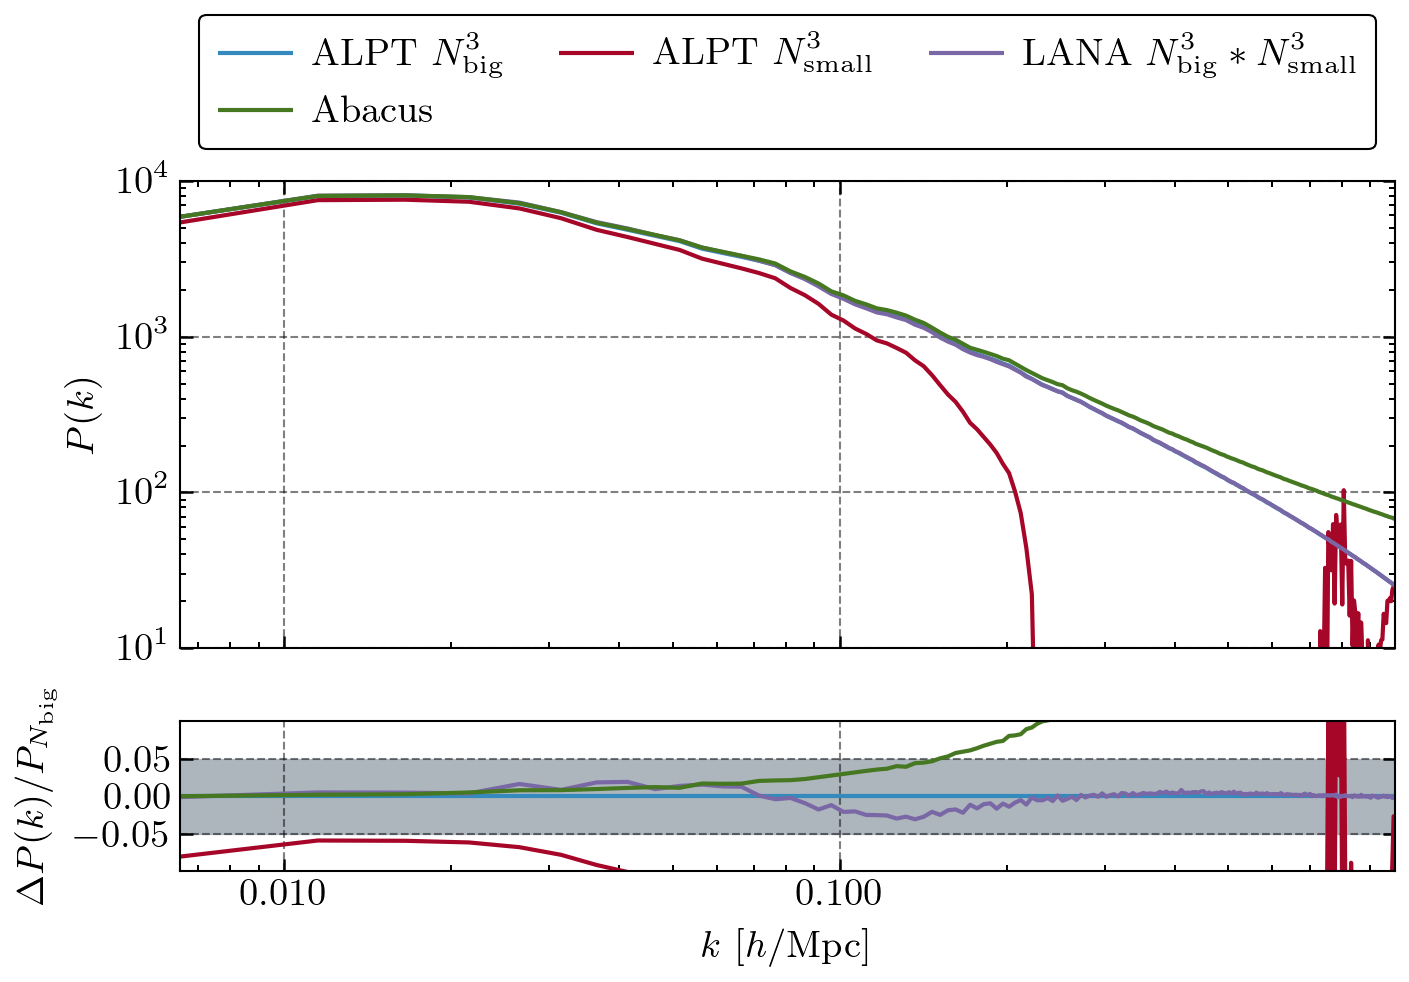
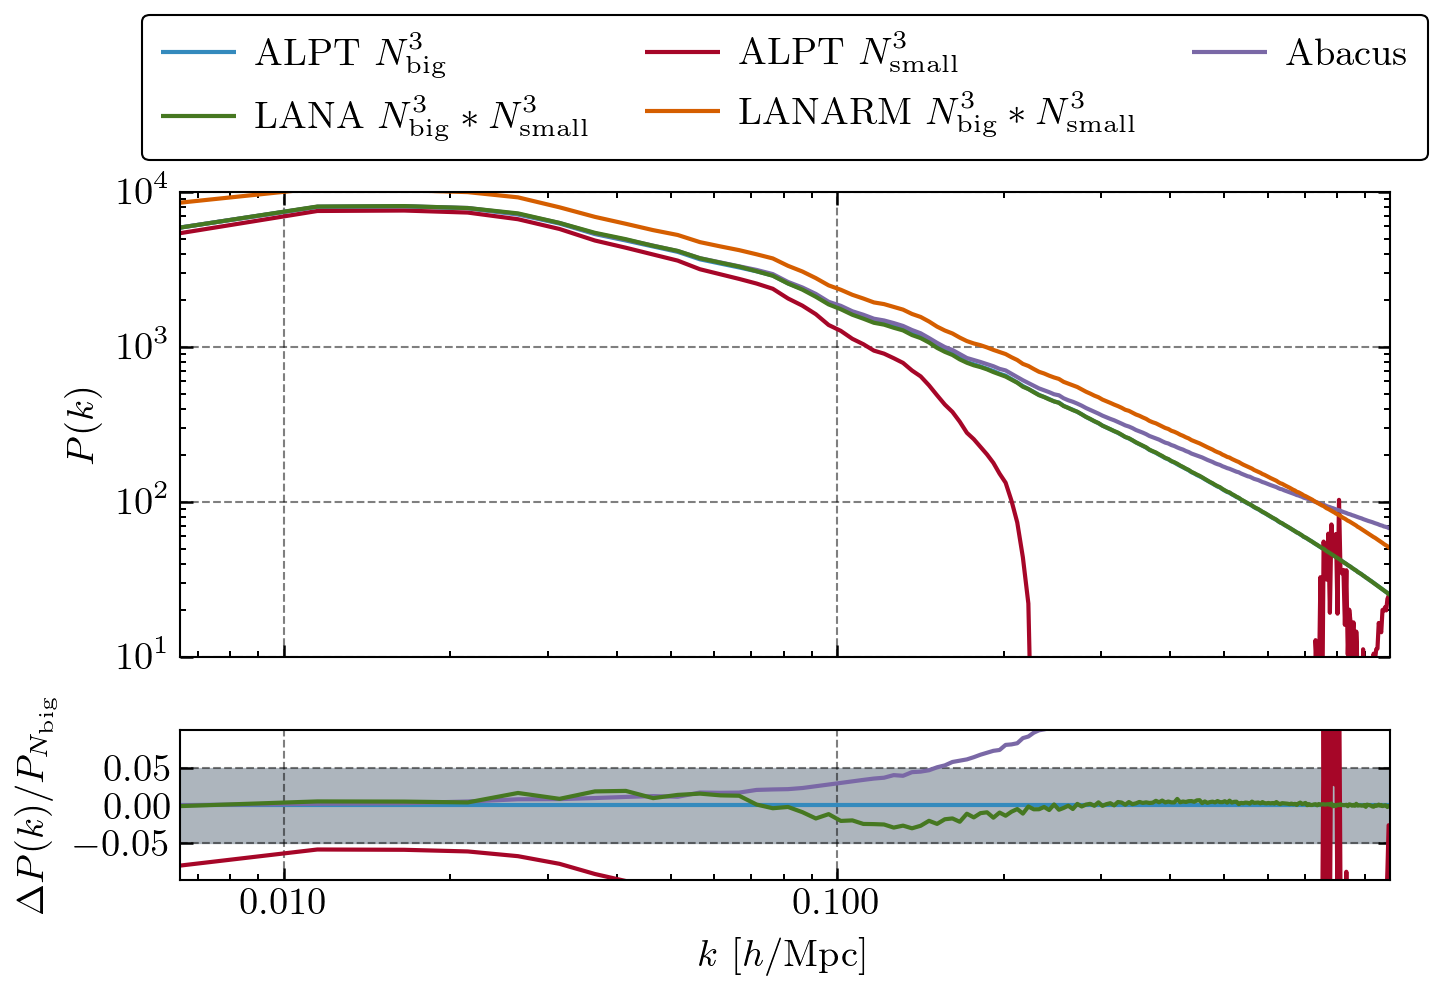
Readme w instructions

diff --git a/examples/multiscale.py b/examples/multiscale.py
@@ -9,15 +9,12 @@ import jax.numpy as jnp
 import jax_cosmo as jc
 from jax_cosmo.power import linear_matter_power, nonlinear_matter_power
 import sys, os, time
-sys.path.append("/home/astro/dforero/codes/pyCosmoMIA/")
-sys.path.append("/home/astro/dforero/codes/pyCosmoMIA/cosmomia/")
-from displacements import aug_lpt, spherical_collapse, two_lpt, zeldovich, divergence_to_displacement, interpolate_field, two_lpt_, nbody, lpt_init, gen_ode_func, eul_aug_lpt, rank_order_fields, apply_transfer_func
-from ics import linear_field_box_muller
-from mas import cic_mas_vec
+from cosmomia.displacements import aug_lpt, spherical_collapse, two_lpt, zeldovich, divergence_to_displacement, interpolate_field, two_lpt_, nbody, lpt_init, gen_ode_func, eul_aug_lpt, rank_order_fields, apply_transfer_func
+from cosmomia.ics import linear_field_box_muller
+from cosmomia.mas import cic_mas_vec
 from cosmomia import cy_read_cic_vector, cy_cic_mas
-from correlations import powspec_vec, naive_pk, naive_xpk, naive_rcoeff, compute_transfer_from_power, compute_transfer_from_cross_power
-sys.path.append("/home/astro/dforero/codes/pypowspec/powspec/")
-from pypowspec import compute_auto_box_mesh, compute_auto_box
+from cosmomia.correlations import powspec_vec, naive_pk, naive_xpk, naive_rcoeff, compute_transfer_from_power, compute_transfer_from_cross_power
+from pypowspec.pypowspec import compute_auto_box_mesh, compute_auto_box
 from tqdm import tqdm
 from mpi4py import MPI
 comm = MPI.COMM_WORLD
@@ -375,10 +372,40 @@ if __name__ == '__main__':
         #pax[0].plot(k_, pk_ / pk_ref - 1,)
         #fig.savefig("plots/example_multiscale.png", dpi=300)
         
+        
+        
+        fname = f"data/reference/dmdens_abacus.npy"
+        fname_pk = f"data/reference/pk_abacus.npy"
+        if not os.path.isfile(fname) or not os.path.isfile(fname_pk) or args.rerun:
+            if not os.path.isfile(fname) or args.rerun:
+                particle_fns = glob.glob("/srv/astro/projects/cosmo3d/AbacusSummit/ics/dm_part_N512_z1.100.npy")
+                #particles = (read_particle_files(particle_fns, use_mp = False) + box_size) % box_size
+                #print(particles.shape)
+                #pk = compute_auto_box(particles[0,:,0],particles[0,:,1], particles[0,:,2], np.ones_like(particles[0,:,2]), "tests/powspec.conf")
+                #k_, pk_ = pk['k'], pk['multipoles'][:,0]
+                delta_ev_abacus = paint_to_mesh(particle_fns, mesh_shape, is_abacus = True)
+                np.save(fname, delta_ev_abacus)
+            else:
+                delta_ev_abacus = np.load(fname)
+            if not os.path.isfile(fname_pk)  or args.rerun:
+                #k_, pk_ = naive_pk(delta_ev, box_size[0], k_edges)  
+                pk = compute_auto_box_mesh(delta_ev_abacus.astype(np.double), "tests/powspec.conf")
+                np.save(fname_pk, pk)
+            else:
+                pk = np.load(fname_pk, allow_pickle=True).item()
+        else:
+            delta_ev_abacus = np.load(fname)
+            pk = np.load(fname_pk, allow_pickle=True).item()
+        #k_, pk_ = naive_pk(delta_ev, box_size[0], k_edges)  
+        k_, pk_ = pk['k'], pk['multipoles'][:,0]
+        ax[0].loglog(k_, pk_, label = "Abacus")
+        pax[0].loglog(k_, pk_ / pk_ref - 1,)
+        
+        
         fname = f"data/multiscale/final/dmdens_abacus_alpt_approx.npy"
         fname_pk = f"data/multiscale/final/pk_abacus_alpt_approx.npy"
-        if not os.path.isfile(fname) or not os.path.isfile(fname_pk)  or 'split' in args.task  or args.rerun or 1:
-            if not os.path.isfile(fname) or 'split' in args.task  or args.rerun or 1:
+        if not os.path.isfile(fname) or not os.path.isfile(fname_pk)  or 'split' in args.task  or args.rerun :
+            if not os.path.isfile(fname) or 'split' in args.task  or args.rerun :
                 particle_fns = glob.glob("data/multiscale/approx/pos*npy")
                 #particles = (read_particle_files(particle_fns, use_mp = False) + box_size) % box_size
                 #print(particles.shape)
@@ -388,7 +415,7 @@ if __name__ == '__main__':
                 np.save(fname, delta_ev)
             else:
                 delta_ev = np.load(fname)
-            if not os.path.isfile(fname_pk) or 'split' in args.task or args.rerun or 1:
+            if not os.path.isfile(fname_pk) or 'split' in args.task or args.rerun :
                 #k_, pk_ = naive_pk(delta_ev, box_size[0], k_edges)  
                 pk = compute_auto_box_mesh(delta_ev.astype(np.double), "tests/powspec.conf")
                 np.save(fname_pk, pk)
@@ -408,22 +435,28 @@ if __name__ == '__main__':
         
         
         
-        fname = f"data/reference/dmdens_abacus.npy"
-        fname_pk = f"data/reference/pk_abacus.npy"
-        if not os.path.isfile(fname) or not os.path.isfile(fname_pk) or args.rerun:
-            if not os.path.isfile(fname) or args.rerun:
-                particle_fns = glob.glob("/srv/astro/projects/cosmo3d/AbacusSummit/ics/dm_part_N512_z1.100.npy")
+        
+        k_edges_interp = jnp.linspace(k_in, jnp.sqrt(3) * k_ny, 200)
+        
+        
+        fname = f"data/multiscale/final/dmdens_abacus_alpt_remap.npy"
+        fname_pk = f"data/multiscale/final/pk_abacus_alpt_remap.npy"
+        if not os.path.isfile(fname) or not os.path.isfile(fname_pk)  or 'split' in args.task  or args.rerun or 1:
+            if not os.path.isfile(fname) or 'split' in args.task  or args.rerun :
+                
                 #particles = (read_particle_files(particle_fns, use_mp = False) + box_size) % box_size
                 #print(particles.shape)
                 #pk = compute_auto_box(particles[0,:,0],particles[0,:,1], particles[0,:,2], np.ones_like(particles[0,:,2]), "tests/powspec.conf")
                 #k_, pk_ = pk['k'], pk['multipoles'][:,0]
-                delta_ev = paint_to_mesh(particle_fns, mesh_shape, is_abacus = True)
+                k_, transfer = compute_transfer_from_power(delta_ev, delta_ev_abacus, box_size[0], k_edges_interp)
+                assert (~np.isnan(transfer)).all()
+                delta_ev = apply_transfer_func(rank_order_fields(delta_ev, apply_transfer_func(delta_ev_abacus, box_size[0], transfer, k_), box_size[0],1.), box_size[0], 1 / transfer, k_)
                 np.save(fname, delta_ev)
             else:
                 delta_ev = np.load(fname)
-            if not os.path.isfile(fname_pk)  or args.rerun:
+            if not os.path.isfile(fname_pk) or 'split' in args.task or args.rerun or 1:
                 #k_, pk_ = naive_pk(delta_ev, box_size[0], k_edges)  
-                pk = compute_auto_box_mesh(delta_ev.astype(np.double), "tests/powspec.conf")
+                pk = compute_auto_box_mesh(np.array(delta_ev).astype(np.double), "tests/powspec.conf")
                 np.save(fname_pk, pk)
             else:
                 pk = np.load(fname_pk, allow_pickle=True).item()
@@ -432,10 +465,12 @@ if __name__ == '__main__':
             pk = np.load(fname_pk, allow_pickle=True).item()
         #k_, pk_ = naive_pk(delta_ev, box_size[0], k_edges)  
         k_, pk_ = pk['k'], pk['multipoles'][:,0]
-        ax[0].loglog(k_, pk_, label = "Abacus")
-        pax[0].loglog(k_, pk_ / pk_ref - 1,)
+        ax[0].loglog(k_, pk_, label = "LANARM $N_{\mathrm{big}}^3*N_{\mathrm{small}}^3$")
+        pax[0].plot(k_, pk_ / pk_ref - 1,)
+        #ax[3].imshow(jnp.log10(2 + delta_ev[:20, :, :].mean(axis=0)), colorbar = None, vmin = VMIN, cmap = cmap, vmax = VMAX)
         
         
+        fig.savefig("plots/example_multiscale.png", dpi=300)
         
         
         ax[0].legend(loc = 'top')

diff --git a/examples/example_subgrid.py b/examples/example_subgrid.py
@@ -118,7 +118,7 @@ if __name__ == '__main__':
                         box=BOX_SIZE[0], 
                         multipole = [0, 2, 4], # Multipoles to compute
                         cf = ['AA / @@ - 1']) # CF estimator (not necessary if only pair counts are required)
-
+    tpcf_ref = tpcf
     print(tpcf['multipoles'].shape)
     ax[0,1].semilogx(tpcf['s'], tpcf['s'] * tpcf['multipoles'][0,0,:])
     ax[1,1].semilogx(tpcf['s'], tpcf['s'] * tpcf['multipoles'][0,1,:])
@@ -126,23 +126,23 @@ if __name__ == '__main__':
     fig.savefig("plots/example_subgrid.png", dpi=300)
     
     vel_kernel_3d = jax.jit(jax.vmap(vel_kernel, in_axes = (0, None, None)))
-    velocities = np.array(vel_kernel_3d(velocities.T.reshape(3, GRID_SIZE, GRID_SIZE, GRID_SIZE), 15., BOX_SIZE[0]).reshape(3, -1).T)
+    velocities = np.array(vel_kernel_3d(velocities.T.reshape(3, GRID_SIZE, GRID_SIZE, GRID_SIZE), 10., BOX_SIZE[0]).reshape(3, -1).T)
     print(velocities.min(axis = 0), velocities.max(axis = 0), velocities.mean(axis = 0))
     velocities = np.array(velocities)
     cache_name = f"data/test_cache.npz"
     if not os.path.isfile(cache_name) or 1:
-        result = py_assign_particles_to_gals(dm_particles, target_ncount,
+        result_init = py_assign_particles_to_gals(dm_particles, target_ncount,
                                             GRID_SIZE, BOX_SIZE, BOX_MIN,
                                             dm_cw_type, dm_dens, displacement,
                                             #velocities, 0, 0.05 * BIN_SIZE[0], False)
                                             velocities, 0, 2, False)
-        np.savez(cache_name, **result)
+        np.savez(cache_name, **result_init)
     else:
-        result = dict(np.load(cache_name))
+        result_init = dict(np.load(cache_name))
     
     
-    print((result['is_attractor'] < 1).any())
-    print((result['is_attractor'].astype(bool)).any())
+    print((result_init['is_attractor'] < 1).any())
+    print((result_init['is_attractor'].astype(bool)).any())
     
     
     ax[0,1].axvline(BIN_SIZE[0], ls =':')
@@ -152,9 +152,52 @@ if __name__ == '__main__':
     #                  powspec_conf_file = "tests/powspec_subgrid.conf",
     #                  )
     #k_, pk_ = pk['k'], pk['multipoles']
+    result_rsd = apply_rsd(REDSHIFT, result_init['pos'][:,2], result_init['vel'][:,2], cosmo_jax)
+    result_rsd += BOX_SIZE[2]
+    result_rsd %= BOX_SIZE[2]
+    delta_cm_raw = jnp.zeros([GRID_SIZE] * 3)
+    delta_cm_raw = cic_mas_vec(delta_cm_raw,
+                    result_init['pos'][:,0], result_init['pos'][:,1], result_rsd, jnp.broadcast_to(jnp.array([1.]), result_init['pos'].shape[0]), 
+                    result_init['pos'].shape[0], 
+                    0., 0., 0.,
+                    BOX_SIZE[0],
+                    delta_cm_raw.shape[0],
+                    True)
+    rho_cm_raw = delta_cm_raw.copy()
+    delta_cm_raw /= delta_cm_raw.mean()
+    delta_cm_raw -= 1.
+    
+    
+    
+    k_, pk_ = naive_pk_poles(delta_cm_raw, BOX_SIZE[0], k_edges)
+    ax[0,0].plot(k_, k_ * pk_[:,0], label = "CosmoMIA")
+    ax[1,0].plot(k_, k_ * pk_[:,1], label = "CosmoMIA")
+    
+    
+    
+    tpcf = py_compute_cf([np.c_[result_init['pos'][:,:2], result_rsd]], [np.ones(result_init['pos'].shape[0], dtype = result_init['pos'].dtype)], 
+                        s_edges.copy(), 
+                        None, 
+                        100, 
+                        label = ['A'], # Catalog labels matching the number of catalogs provided
+                        bin=1, # bin type for multipoles
+                        pair = ['AA'], # Desired pair counts
+                        box=BOX_SIZE[0], 
+                        multipole = [0, 2, 4], # Multipoles to compute
+                        cf = ['AA / @@ - 1']) # CF estimator (not necessary if only pair counts are required)
+
+    print(tpcf['multipoles'].shape)
+    ax[0,1].semilogx(tpcf['s'], tpcf['s'] * tpcf['multipoles'][0,0,:])
+    ax[1,1].semilogx(tpcf['s'], tpcf['s'] * tpcf['multipoles'][0,1,:])
+    fig.savefig("plots/example_subgrid.png", dpi=300)
+    
+    
+    params = np.array([1, 1. * BIN_SIZE[0], 100, 2, 10.], dtype = np.float32)
+    result = subgrid_collapse(result_init, params, BOX_SIZE, result_init['is_attractor'].astype(bool), 99, debug = False)
     result_rsd = apply_rsd(REDSHIFT, result['pos'][:,2], result['vel'][:,2], cosmo_jax)
     result_rsd += BOX_SIZE[2]
     result_rsd %= BOX_SIZE[2]
+    
     delta_cm_raw = jnp.zeros([GRID_SIZE] * 3)
     delta_cm_raw = cic_mas_vec(delta_cm_raw,
                     result['pos'][:,0], result['pos'][:,1], result_rsd, jnp.broadcast_to(jnp.array([1.]), result['pos'].shape[0]), 
@@ -192,33 +235,15 @@ if __name__ == '__main__':
     fig.savefig("plots/example_subgrid.png", dpi=300)
     
     
-    params = np.array([0.9, 3. * BIN_SIZE[0], 0.5, BIN_SIZE[0], 10.], dtype = np.float32)
-    result = subgrid_collapse(result, params, BOX_SIZE, result['is_attractor'].astype(bool), 99, debug = False)
-    result_rsd = apply_rsd(REDSHIFT, result['pos'][:,2], result['vel'][:,2], cosmo_jax)
-    result_rsd += BOX_SIZE[2]
-    result_rsd %= BOX_SIZE[2]
+    exit()
     
-    delta_cm_raw = jnp.zeros([GRID_SIZE] * 3)
-    delta_cm_raw = cic_mas_vec(delta_cm_raw,
-                    result['pos'][:,0], result['pos'][:,1], result_rsd, jnp.broadcast_to(jnp.array([1.]), result['pos'].shape[0]), 
-                    result['pos'].shape[0], 
-                    0., 0., 0.,
-                    BOX_SIZE[0],
-                    delta_cm_raw.shape[0],
-                    True)
-    rho_cm_raw = delta_cm_raw.copy()
-    delta_cm_raw /= delta_cm_raw.mean()
-    delta_cm_raw -= 1.
-    
-    
-    
-    k_, pk_ = naive_pk_poles(delta_cm_raw, BOX_SIZE[0], k_edges)
-    ax[0,0].plot(k_, k_ * pk_[:,0], label = "CosmoMIA")
-    ax[1,0].plot(k_, k_ * pk_[:,1], label = "CosmoMIA")
-    
-    
-    
-    tpcf = py_compute_cf([np.c_[result['pos'][:,:2], result_rsd]], [np.ones(result['pos'].shape[0], dtype = result['pos'].dtype)], 
+    def loss_fn(params):
+        
+        result = subgrid_collapse(result_init, params.astype(np.float32), BOX_SIZE, result_init['is_attractor'].astype(bool), 99, debug = False)
+        result_rsd = apply_rsd(REDSHIFT, result['pos'][:,2], result['vel'][:,2], cosmo_jax)
+        result_rsd += BOX_SIZE[2]
+        result_rsd %= BOX_SIZE[2]
+        tpcf = py_compute_cf([np.c_[result['pos'][:,:2], result_rsd]], [np.ones(result['pos'].shape[0], dtype = result['pos'].dtype)], 
                         s_edges.copy(), 
                         None, 
                         100, 
@@ -228,11 +253,15 @@ if __name__ == '__main__':
                         box=BOX_SIZE[0], 
                         multipole = [0, 2, 4], # Multipoles to compute
                         cf = ['AA / @@ - 1']) # CF estimator (not necessary if only pair counts are required)
-
-    print(tpcf['multipoles'].shape)
-    ax[0,1].semilogx(tpcf['s'], tpcf['s'] * tpcf['multipoles'][0,0,:])
-    ax[1,1].semilogx(tpcf['s'], tpcf['s'] * tpcf['multipoles'][0,1,:])
-    fig.savefig("plots/example_subgrid.png", dpi=300)
+        loss_val = np.mean(np.abs(tpcf['s'] * (tpcf['multipoles'][0,0,:] - tpcf_ref['multipoles'][0,0,:])))
+        print("Loss = ", loss_val, "params = ", params, flush = True)
+        return loss_val
+        
+        
+    from scipy.optimize import minimize
+    
+    res = minimize(loss_fn, params, method='BFGS',
+               options={'xatol': 1e-8, 'disp': True})
     
     
     

diff --git a/cosmomia/__init__.py b/cosmomia/__init__.py
@@ -1,2 +1,2 @@
 from .mas import *
-from .cosmomia import py_assign_particles_to_gals, subgrid_collapse
+from .cosmomia import py_assign_particles_to_gals, subgrid_collapse, cy_read_cic_vector, cy_cic_mas

diff --git a/README.md b/README.md
@@ -1,6 +1,19 @@
 # pyCosmoMIA
 ### A python version of CosmoMIA.jl
+Plus some simple utils for approximate simulations
 
 
-To compile the C++ extension use `python setup.py build_ext --inplace`
-`python setup.py develop --user`
+## Installation
+
+To install simply clone the repo
+```
+git clone https://github.com/dforero0896/pyCosmoMIA.git
+```
+
+then in the repository directory (`cd pyCosmoMIA`) run
+```
+python setup.py develop --user
+```
+## Usage
+Many examples can be find in the `examples/` directory, feel free to check the `tests/` directory too.
+
